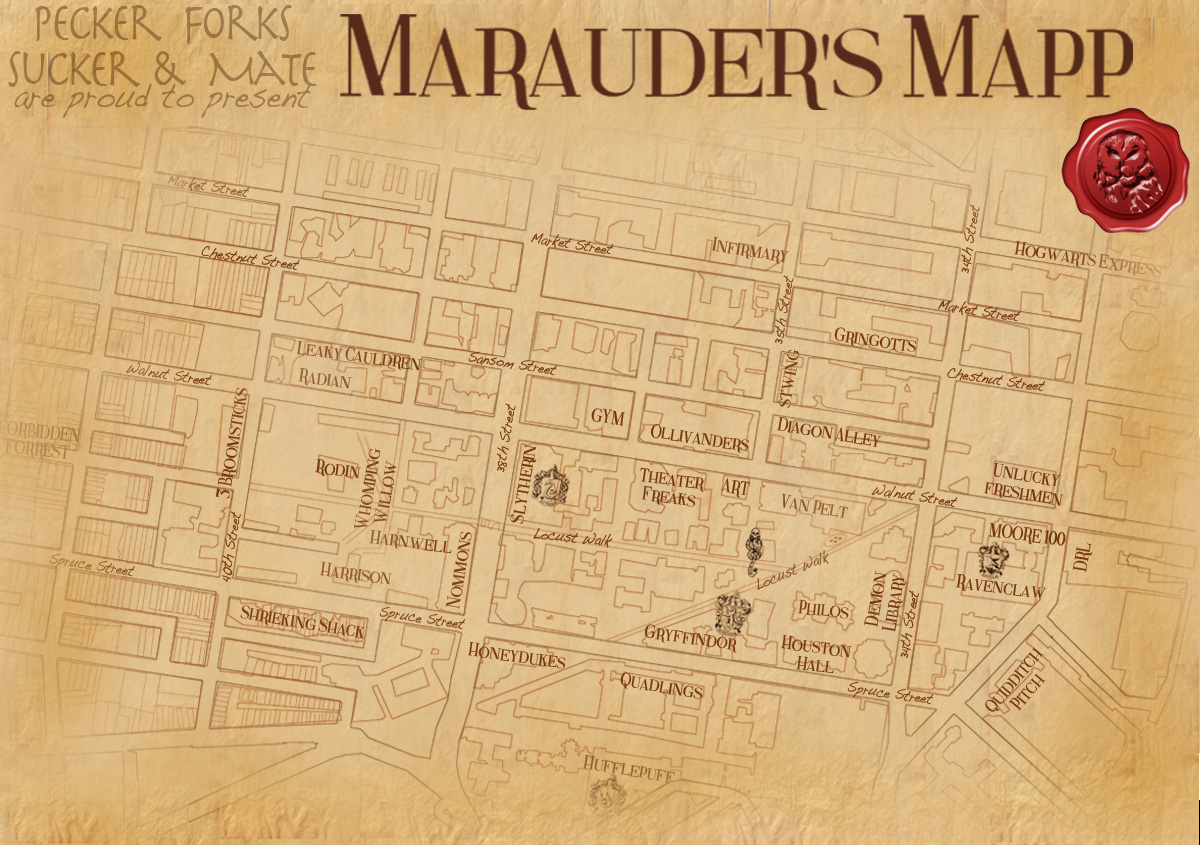
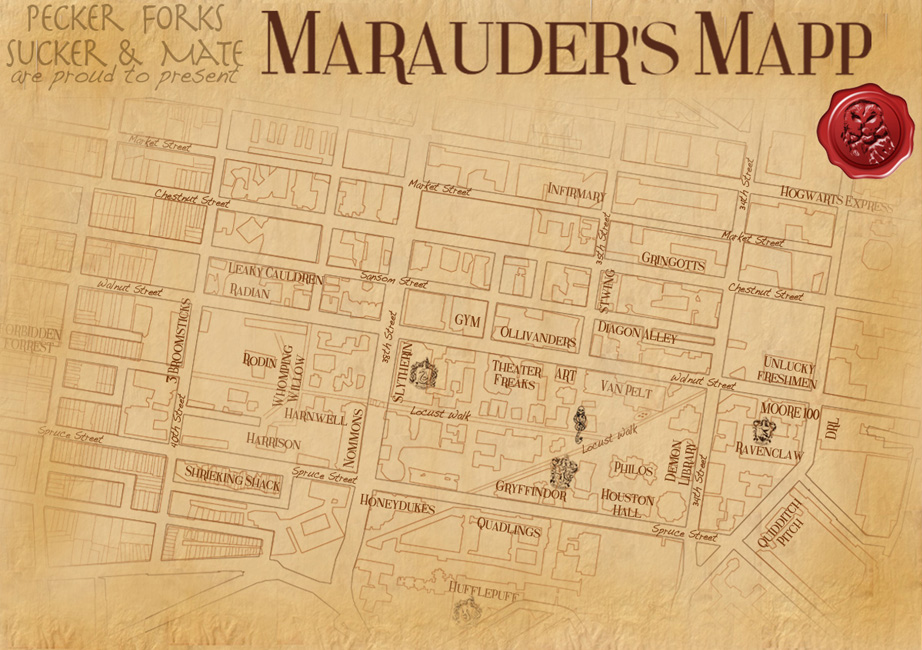
trying to fix offset

diff --git a/index.html b/index.html
@@ -118,6 +118,31 @@
           
           var ctx = document.getElementById('new_canvas').getContext('2d');
 
+          ctx.clearRect(0, 0, 923, 552);
+          ctx.font = "18px Mate SC";
+          
+          success.forEach(function(key, value){
+            var img = new Image();
+            img.src = "images/banner_pointer.png";
+            img.onload = function () {
+
+              var uly = 39.95638 + 0.000080;
+              var ulx = -75.206406 + 0.000280;
+              var bry = 39.948608 + 0.000080;
+              var brx = -75.188155 + 0.000280;
+
+              var mapwidth = brx - ulx;
+              var mapheight = uly - bry;
+              var x = ((brx - value.lon)/mapwidth) * 923;
+              var y = ((bry - value.lat)/mapheight) * -552;
+              x = 923 - x;
+              y = 552 - y;
+              ctx.drawImage(img, x, y);
+              ctx.fillText(value.name, x + 32, y + 25);
+              console.log("name=" + value.name + ", lat=" + value.lat + ", lon=" + value.lon);
+              console.log("X coord: " + x + ", Y coord: " + y);
+          /*
+           * stretched vertical offset
           ctx.clearRect(0, 0, 923, 650);
           ctx.font = "18px Mate SC";
           
@@ -125,10 +150,6 @@
             var img = new Image();
             img.src = "images/banner_pointer.png";
             img.onload = function () {
-              /*var uly = 39.95708;
-              var ulx = -75.206416;
-              var bry = 39.948678;
-              var brx = -75.188155;*/
 
               var uly = 39.95638 + 0.000080;
               var ulx = -75.206406 + 0.000280;
@@ -145,6 +166,7 @@
               ctx.fillText(value.name, x + 32, y + 25);
               console.log("name=" + value.name + ", lat=" + value.lat + ", lon=" + value.lon);
               console.log("X coord: " + x + ", Y coord: " + y);
+              */
             };
           });
         });
@@ -155,7 +177,7 @@
   <body>
     <div class = "container">
       <div class = "side">
-        <input type = "text" id = "name" class = "tb10"/>
+        <input type="text" id="name" class= "tb10"/>
       </div>
 
       <div id = "canvas_container" class = "box_shadow">

diff --git a/style.css b/style.css
@@ -47,11 +47,12 @@ body {
   float: left;
   width: 923px;
   height: 650px;
-  background-image: url('images/map.jpg');
+  background-image: url('images/map3.jpg');
   margin: 10px 0px 0 0;
 }
 
 #new_canvas {
+  margin: 100px 0 0 0;
   width: 100%;
   height: 100%;
 }
